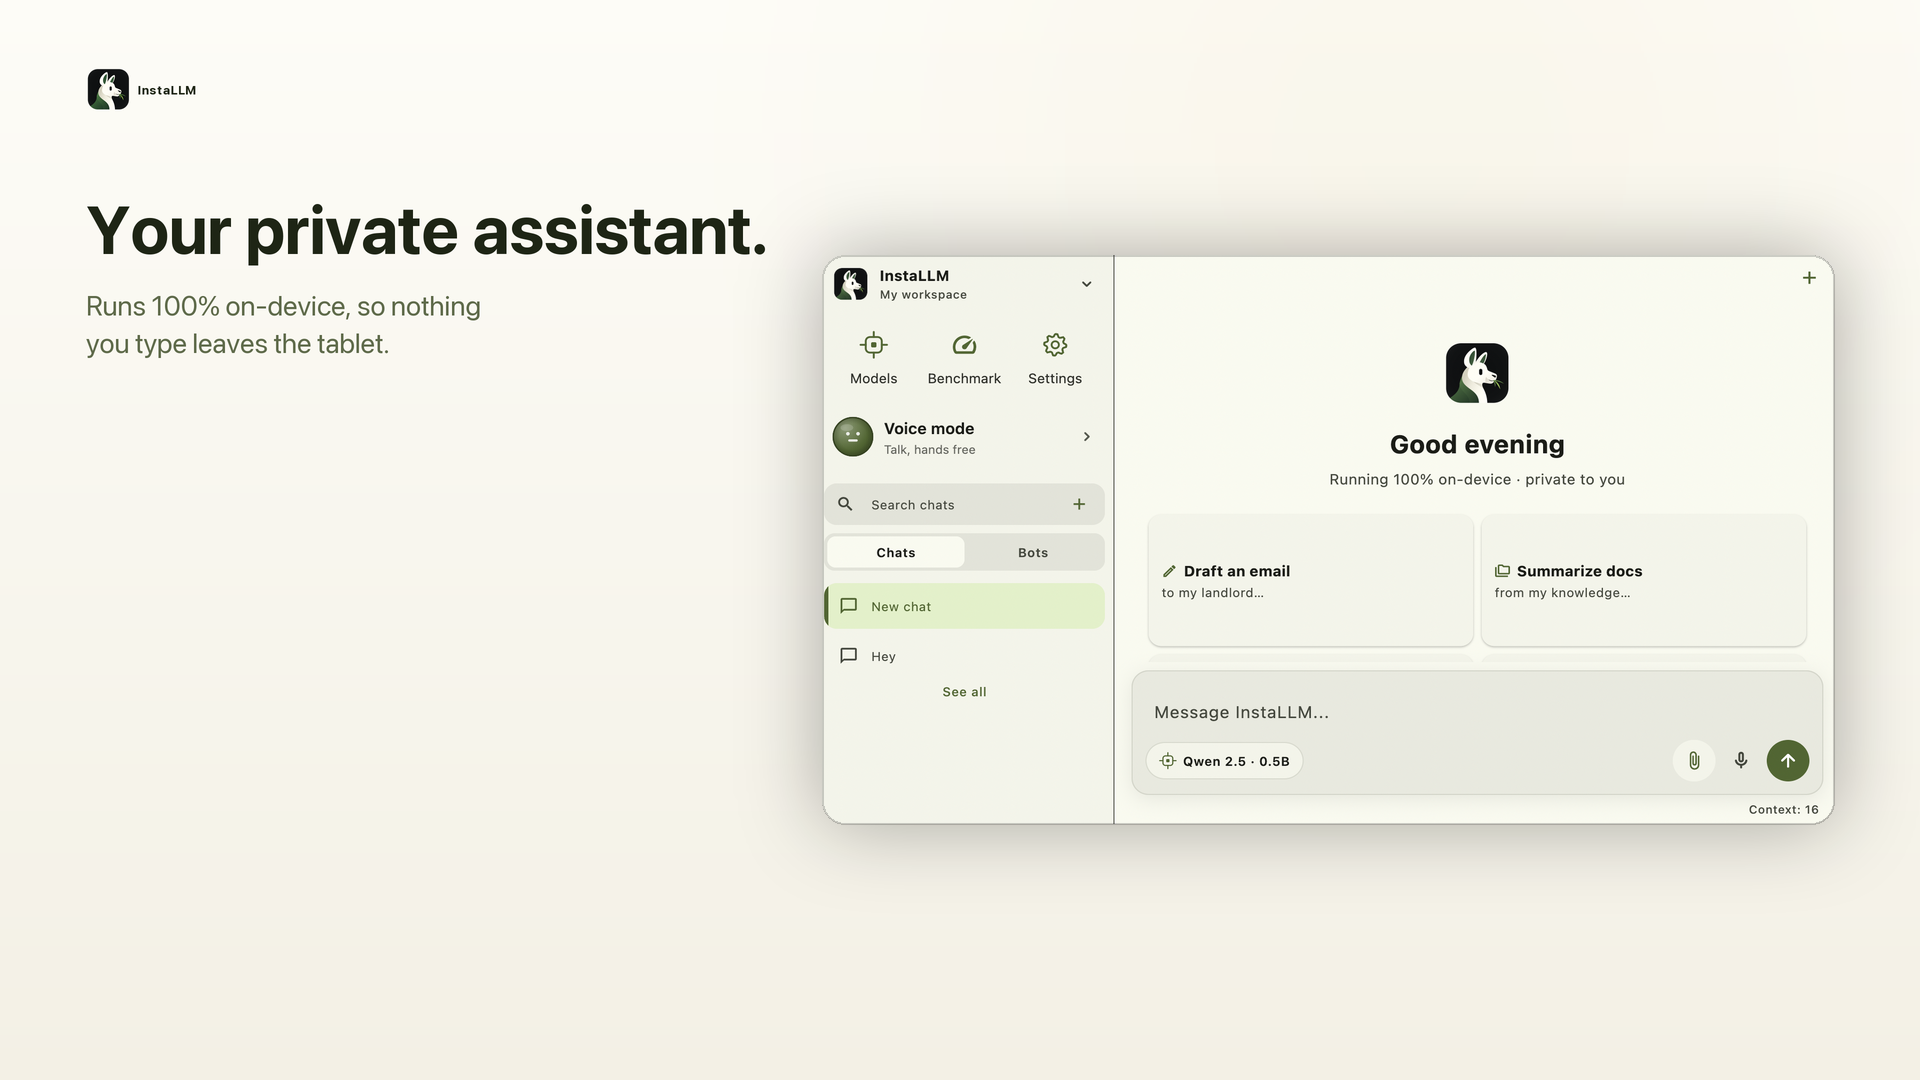
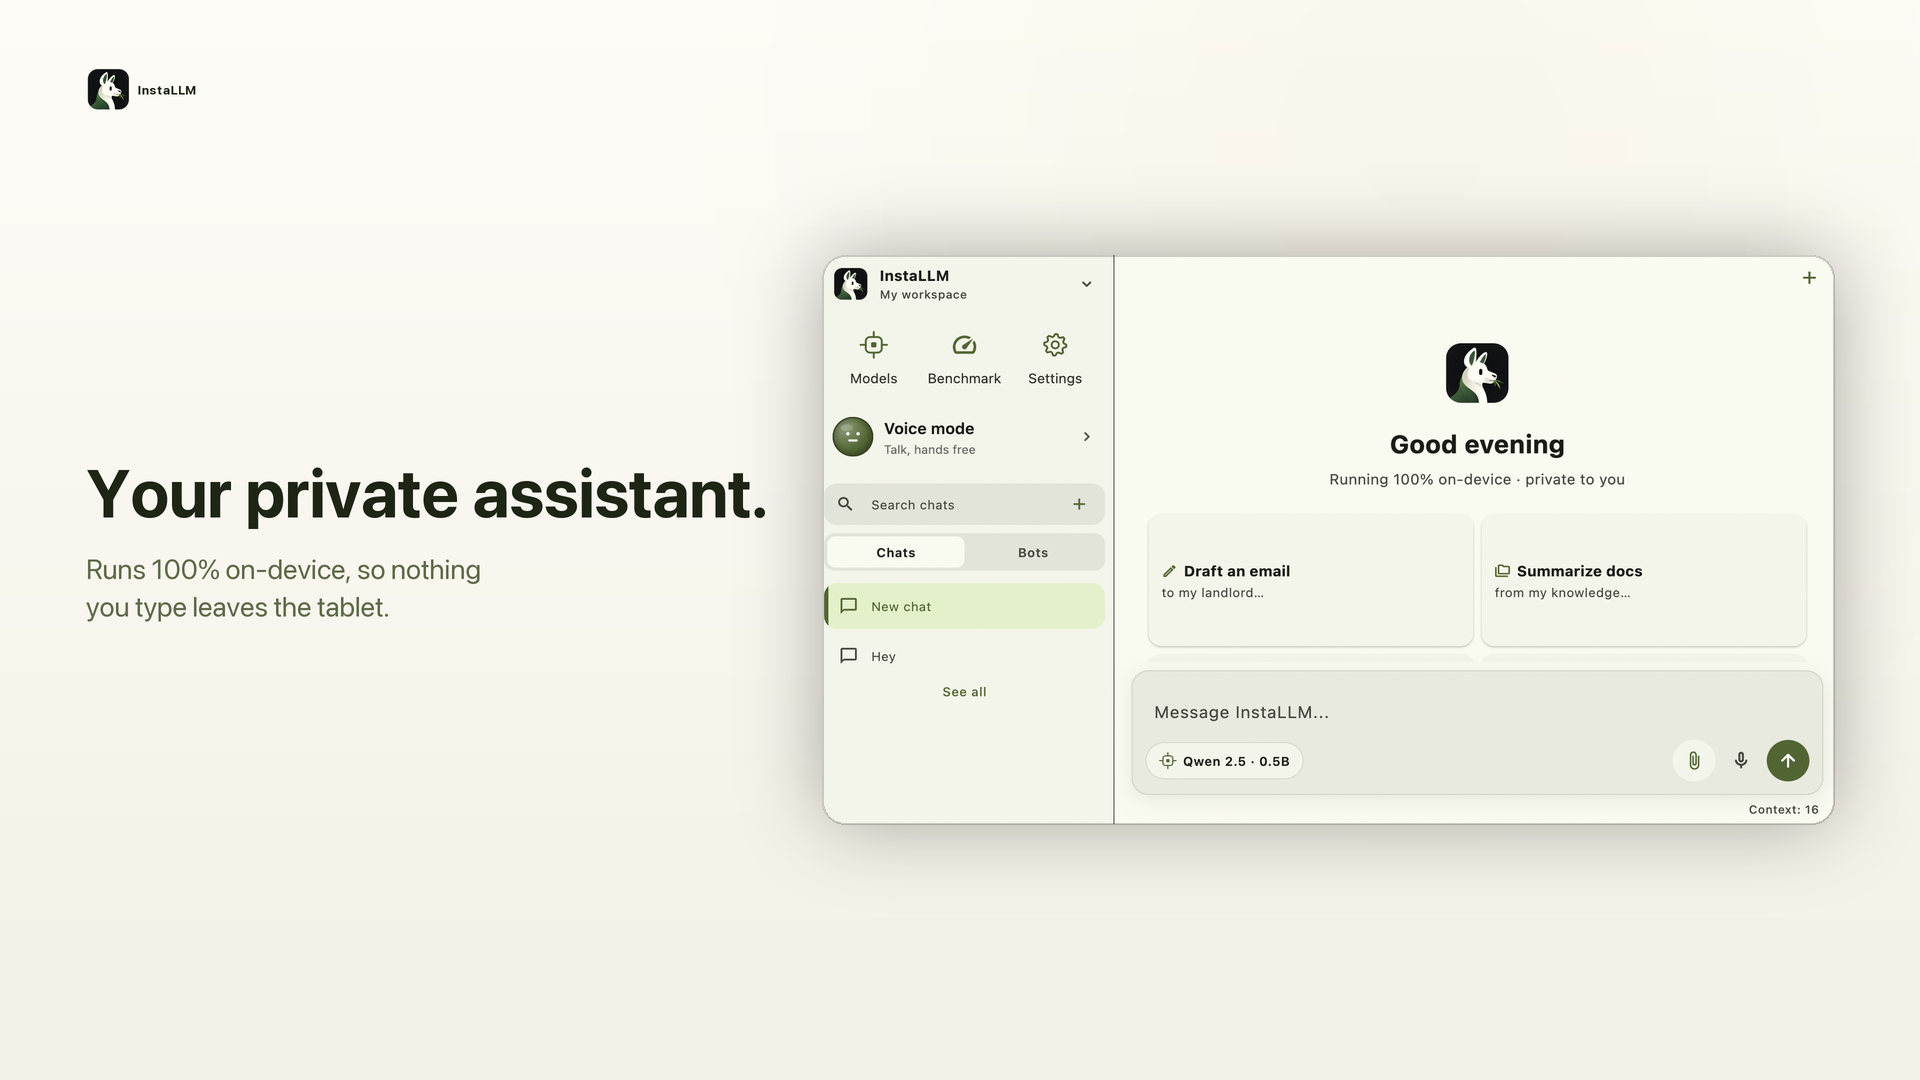
Centre the landscape store captions on the card
On the wide panels the caption sat high under the brand mark and left a large
empty gap beneath it, so the text block is now centred against the device card
while still clearing the brand row. Phone panels keep the caption pinned above
the card, where the stack already reads top to bottom.

diff --git a/scripts/generate_store_art.py b/scripts/generate_store_art.py
@@ -197,14 +197,29 @@ def build(canvas_size, dark, headline, subtitle, shot_path, layout):
     hf = font(layout["headline_size"], "Bold")
     max_w = layout["text_width"] * SS
     lines = balanced_wrap(d, headline, hf, max_w)
-    y = layout["headline_y"] * SS
+    sf = font(layout["sub_size"], "Regular")
+    sub_lines = balanced_wrap(d, subtitle, sf, max_w)
+
+    top = layout["headline_y"] * SS
+    if layout.get("center_text"):
+        # Landscape panels: the caption reads as part of the card, so centre the
+        # whole text block on the card rather than pinning it under the brand.
+        block = (
+            len(lines) * layout["headline_size"] * SS * 1.12
+            + layout["sub_gap"] * SS
+            + len(sub_lines) * layout["sub_size"] * SS * 1.34
+        )
+        card_mid = (layout["card"][1] + layout["card"][3]) / 2 * SS
+        floor = (layout["brand"][1] + layout["tile"] + 40) * SS
+        top = max(floor, card_mid - block / 2)
+
+    y = top
     for line in lines:
         d.text((layout["text_x"] * SS, y), line, font=hf, fill=head_colour, anchor="la")
         y += layout["headline_size"] * SS * 1.12
 
-    sf = font(layout["sub_size"], "Regular")
     y += layout["sub_gap"] * SS
-    for line in balanced_wrap(d, subtitle, sf, max_w):
+    for line in sub_lines:
         d.text((layout["text_x"] * SS, y), line, font=sf, fill=body_colour, anchor="la")
         y += layout["sub_size"] * SS * 1.34
 
@@ -263,7 +278,7 @@ def landscape(w, h):
         card=(card_x, card_y, card_x + card_w, card_y + card_h),
         radius=int(round(0.012 * w)), shadow_blur=int(round(0.02 * w)),
         shadow_alpha=80,
-        glow=(0.74, 0.14, 0.78, 0.42),
+        glow=(0.74, 0.14, 0.78, 0.42), center_text=True,
     )
 
 
